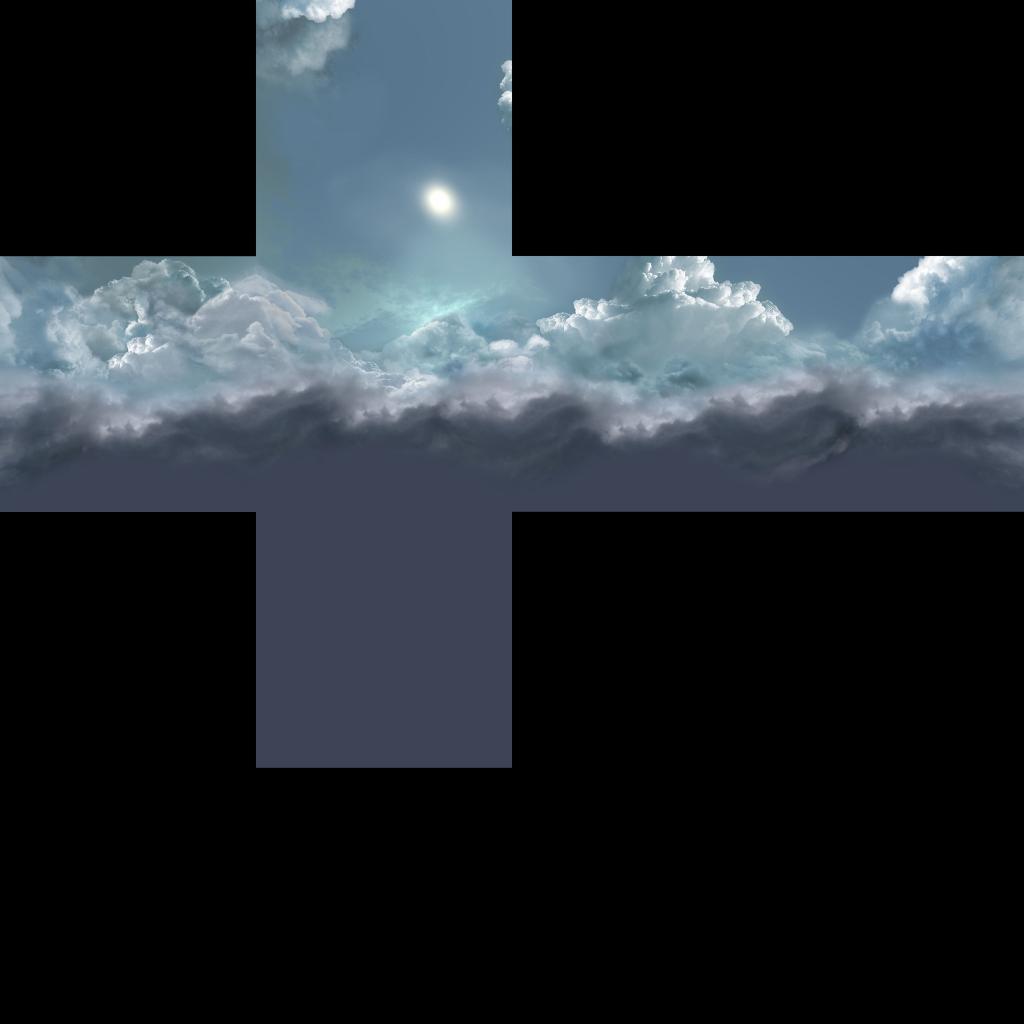
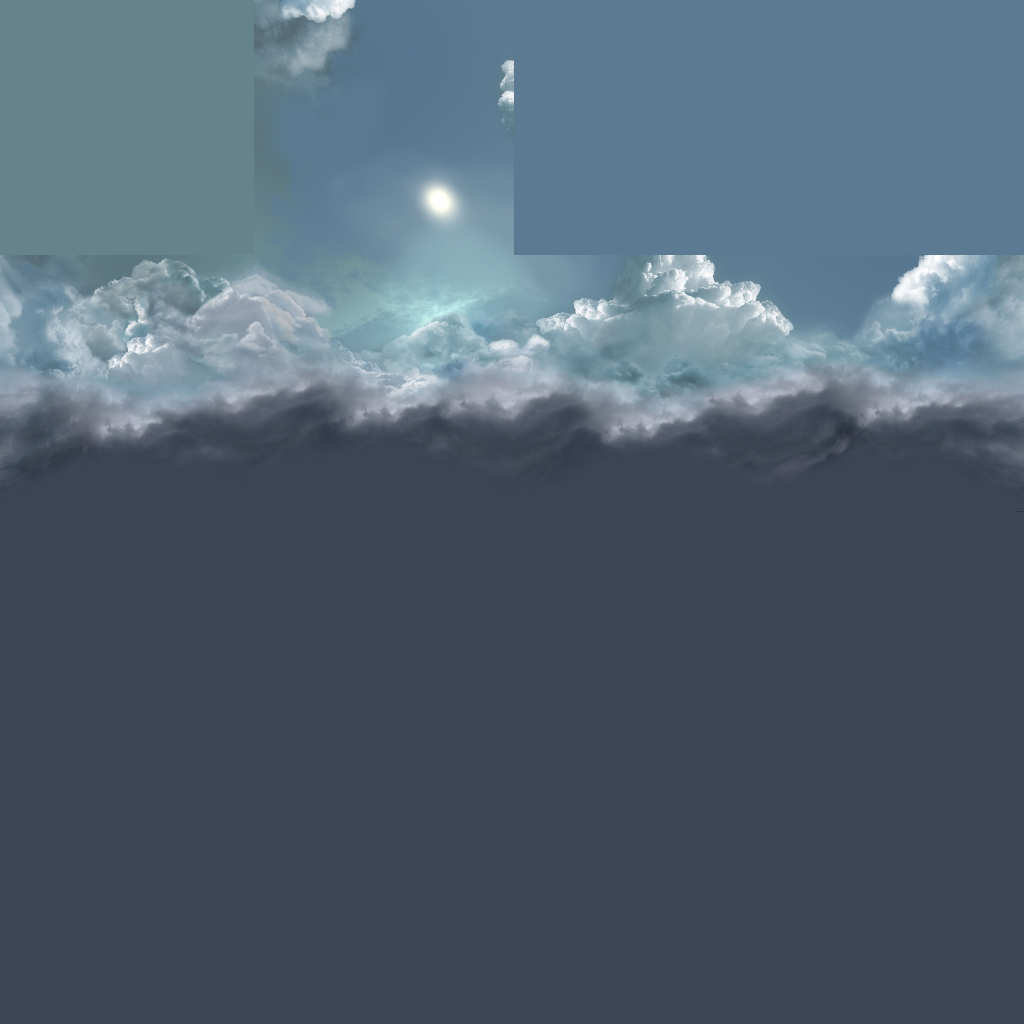
Lab8.6 - skybox mapped correctly. Lab5.1 map sampling comments added

diff --git a/Lab5.1/GraphicsProgramming/GraphicsProgramming/Scene.cpp b/Lab5.1/GraphicsProgramming/GraphicsProgramming/Scene.cpp
@@ -133,16 +133,16 @@ void Scene::render() {
 	// Bilinear
 	//glTexParameteri(GL_TEXTURE_2D, GL_TEXTURE_MIN_FILTER, GL_LINEAR);
 	//glTexParameteri(GL_TEXTURE_2D, GL_TEXTURE_MAG_FILTER, GL_LINEAR);
-
+	// Mitmapping
 	//glTexParameteri(GL_TEXTURE_2D, GL_TEXTURE_MIN_FILTER, GL_NEAREST_MIPMAP_NEAREST);
 	//glTexParameteri(GL_TEXTURE_2D, GL_TEXTURE_MAG_FILTER, GL_NEAREST_MIPMAP_NEAREST);
-	
+	// half mippaing
 	//glTexParameteri(GL_TEXTURE_2D, GL_TEXTURE_MIN_FILTER, GL_LINEAR_MIPMAP_NEAREST);
 	//glTexParameteri(GL_TEXTURE_2D, GL_TEXTURE_MAG_FILTER, GL_LINEAR_MIPMAP_NEAREST);
-
+	// half trilinear
 	//glTexParameteri(GL_TEXTURE_2D, GL_TEXTURE_MIN_FILTER, GL_NEAREST_MIPMAP_LINEAR);
 	//glTexParameteri(GL_TEXTURE_2D, GL_TEXTURE_MAG_FILTER, GL_NEAREST_MIPMAP_LINEAR);
-
+	// Trilinear
 	//glTexParameteri(GL_TEXTURE_2D, GL_TEXTURE_MIN_FILTER, GL_LINEAR_MIPMAP_LINEAR);
 	//glTexParameteri(GL_TEXTURE_2D, GL_TEXTURE_MAG_FILTER, GL_LINEAR_MIPMAP_LINEAR);
 

diff --git a/Lab8/GraphicsProgramming/GraphicsProgramming/Scene.cpp b/Lab8/GraphicsProgramming/GraphicsProgramming/Scene.cpp
@@ -191,6 +191,9 @@ void Scene::render() {
 	         );
 
 	glBindTexture(GL_TEXTURE_2D, *skybox); {
+	// Point sampling
+	/*glTexParameteri(GL_TEXTURE_2D, GL_TEXTURE_MIN_FILTER, GL_NEAREST);
+	glTexParameteri(GL_TEXTURE_2D, GL_TEXTURE_MAG_FILTER, GL_NEAREST);*/
 		glPushMatrix();
 			glTranslatef(camera.getPositionX(), camera.getPositionY(), camera.getPositionZ());
 			glDisable(GL_DEPTH_TEST);
